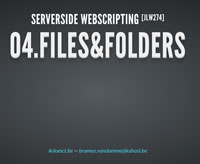
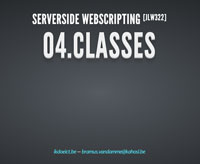
Switch Presentations 04 and 05

Changed region(s): [[0.03, 0.1829, 0.93, 0.3659], [0.15, 0.061, 0.84, 0.1524], [0.24, 0.8841, 0.75, 0.9451]]

diff --git a/05.files.and.folders.html b/05.files.and.folders.html
@@ -4,9 +4,9 @@
 	<head>
 		<meta charset="utf-8">
 
-		<title>Webscripting1 &mdash; Serverside Webscripting &mdash; 04.files.and.folders</title>
+		<title>Webscripting1 &mdash; Serverside Webscripting &mdash; 05.files.and.folders</title>
 
-		<meta name="description" content="Webscripting1 &mdash; Serverside Webscripting &mdash; 04.files.and.folders">
+		<meta name="description" content="Webscripting1 &mdash; Serverside Webscripting &mdash; 05.files.and.folders">
 		<meta name="author" content="Bram(us) Van Damme - ikdoeict.be">
 
 		<link href='http://fonts.googleapis.com/css?family=Lato:400,700,400italic,700italic' rel='stylesheet' type='text/css'>
@@ -75,7 +75,7 @@
 
 					<section>
 						<h3 class="inverted">Serverside Webscripting <small>[JLW322]</small></h3>
-						<h1>04.files&amp;folders</h1>
+						<h1>05.files&amp;folders</h1>
 
 						<footer>
 							<em><a href="http://www.ikdoeict.be/">ikdoeict.be</a> &mdash; <a href="mailto:bramus.vandamme@kahosl.be">bramus.vandamme@kahosl.be</a></em>
@@ -106,8 +106,8 @@
 									<li class="fragment clearfix">
 										Windows: NTFS permissions <em>(disable simple file sharing!)</em>
 										<div class="columns clearfix fragment" style="width: 520px; margin: 0 auto;">
-											<div class="column column-12"><img src="assets/04/windows-simplefilesharing.png" width="240" alt="" title="" class="noborder" /></div>
-											<div class="column column-12"><img src="assets/04/windows-permissions.png" width="240" alt="" title="" class="noborder" /></div>
+											<div class="column column-12"><img src="assets/05/windows-simplefilesharing.png" width="240" alt="" title="" class="noborder" /></div>
+											<div class="column column-12"><img src="assets/05/windows-permissions.png" width="240" alt="" title="" class="noborder" /></div>
 										</div>
 									</li>
 								</ul>
@@ -172,7 +172,7 @@
 						<ul>
 							<li class="fragment">
 								Example
-								<pre class="bigger"><code class="language-php" data-overlay-example="assets/04/examples/fileread_01.php">&lt;?php
+								<pre class="bigger"><code class="language-php" data-overlay-example="assets/05/examples/fileread_01.php">&lt;?php
 
 	// path to file (relative from this PHP file)
 	$filename = './testfile.txt';
@@ -204,7 +204,7 @@
 						<ul>
 							<li class="fragment">
 								Example 2
-								<pre class="bigger"><code class="language-php" data-overlay-example="assets/04/examples/fileread_02.php">&lt;?php
+								<pre class="bigger"><code class="language-php" data-overlay-example="assets/05/examples/fileread_02.php">&lt;?php
 
 	$handle = fopen('./testfile.txt', 'r');
 
@@ -227,7 +227,7 @@
 						<ul>
 							<li class="fragment">
 								Get all lines of a file in an array using <code>file()</code>
-								<pre class="bigger"><code class="language-php" data-overlay-example="assets/04/examples/fileread_03.php">&lt;?php
+								<pre class="bigger"><code class="language-php" data-overlay-example="assets/05/examples/fileread_03.php">&lt;?php
 
 	$lines = file('./testfile.txt');
 
@@ -238,7 +238,7 @@
 							</li>
 							<li class="fragment">
 								Get the entire file contens using 1 command
-								<pre class="bigger"><code class="language-php" data-overlay-example="assets/04/examples/fileread_04.php">&lt;?php
+								<pre class="bigger"><code class="language-php" data-overlay-example="assets/05/examples/fileread_04.php">&lt;?php
 	echo file_get_contents('./testfile.txt');</code></pre>
 							</li>
 						</ul>
@@ -253,13 +253,13 @@
 							</li>
 							<li class="fragment">
 								Or just use <code>file_put_contents()</code>
-								<pre class="bigger"><code class="language-php" data-overlay-example="assets/04/examples/filewrite_01.php">&lt;?php
+								<pre class="bigger"><code class="language-php" data-overlay-example="assets/05/examples/filewrite_01.php">&lt;?php
 
 	file_put_contents('./testfile2.txt', 'hello!' . PHP_EOL);</code></pre>
 								<ul>
 									<li class="fragment">
 										To update a file combine <code>file_get_contents()</code> and <code>file_put_contents()</code>
-										<pre class="bigger"><code class="language-php" data-overlay-example="assets/04/examples/filewrite_02.php">&lt;?php
+										<pre class="bigger"><code class="language-php" data-overlay-example="assets/05/examples/filewrite_02.php">&lt;?php
 
 	file_put_contents(
 		'./testfile2.txt',
@@ -278,7 +278,7 @@
 						<ul>
 							<li class="fragment">
 								Example
-								<pre class="bigger"><code class="language-php" data-overlay-example="assets/04/examples/fileproperties.php">&lt;?php
+								<pre class="bigger"><code class="language-php" data-overlay-example="assets/05/examples/fileproperties.php">&lt;?php
 
 	$filename = './testfile.txt';
 
@@ -301,7 +301,7 @@
 						<ul>
 							<li class="fragment">
 								Example
-								<pre class="bigger"><code class="language-php" data-overlay-example="assets/04/examples/filemanipulation.php">&lt;?php
+								<pre class="bigger"><code class="language-php" data-overlay-example="assets/05/examples/filemanipulation.php">&lt;?php
 
 	// Copy file
 	copy('./testfile.txt', './copiedfile.txt');
@@ -322,7 +322,7 @@
 						<ul>
 							<li class="fragment">
 								Example
-								<pre class="bigger"><code class="language-php" data-overlay-example="assets/04/examples/dirread.php">&lt;?php
+								<pre class="bigger"><code class="language-php" data-overlay-example="assets/05/examples/dirread.php">&lt;?php
 
 	$myBaseDir	= './';
 	$dp = opendir($myBaseDir);
@@ -354,7 +354,7 @@
 						<ul>
 							<li class="fragment">
 								Suppress errors with <code>@</code> and stop the process when neccessary
-								<pre class="bigger"><code class="language-php" data-overlay-example="assets/04/examples/dirread.php">&lt;?php
+								<pre class="bigger"><code class="language-php" data-overlay-example="assets/05/examples/dirread.php">&lt;?php
 
 	$myBaseDir	= './';
 	$dp = @opendir($myBaseDir) or die('Error reading ' . $myBaseDir);
@@ -433,7 +433,7 @@ $car-&gt;stop();</code></pre>
 						<h2>SPL and files (2)</h2>
 						<ul>
 							<li class="fragment">Example (file info)
-							<pre class="bigger"><code class="language-php" data-overlay-example="assets/04/examples/spl_fileproperties.php">&lt;?php
+							<pre class="bigger"><code class="language-php" data-overlay-example="assets/05/examples/spl_fileproperties.php">&lt;?php
 
 	$filename = './testfile.txt';
 	$fi = new SplFileInfo($filename);
@@ -454,7 +454,7 @@ $car-&gt;stop();</code></pre>
 						<h2>SPL and files (3)</h2>
 						<ul>
 							<li class="fragment">Example (file read)
-							<pre class="bigger"><code class="language-php" data-overlay-example="assets/04/examples/spl_fileread.php">&lt;?php
+							<pre class="bigger"><code class="language-php" data-overlay-example="assets/05/examples/spl_fileread.php">&lt;?php
 
 	$lines = new SPLFileObject('./testfile.txt');
 
@@ -478,7 +478,7 @@ $car-&gt;stop();</code></pre>
 							<li class="fragment">SPL contains a <code>DirectoryIterator</code> class &mdash; which extends <code>SPLFileInfo</code> (!) &mdash; a simple interface for viewing the contents of filesystem directories <em>(<a href="http://www.php.net/manual/en/class.directoryiterator.php">phpdocs</a>)</em></li>
 							<li class="fragment">
 								Example
-								<pre class="bigger"><code class="language-php" data-overlay-example="assets/04/examples/spl_dirread.php">&lt;?php
+								<pre class="bigger"><code class="language-php" data-overlay-example="assets/05/examples/spl_dirread.php">&lt;?php
 
 	$myBaseDir = './';
 	$di = new DirectoryIterator($myBaseDir);
@@ -500,7 +500,7 @@ $car-&gt;stop();</code></pre>
 						<ul>
 							<li class="fragment">
 								If you try to access a file/folder that doesn't exist using the SPL classes, PHP will throw an <code>Exception</code>
-								<pre class="bigger"><code class="language-php" data-overlay-example="assets/04/examples/spl_exception_01.php">&lt;?php
+								<pre class="bigger"><code class="language-php" data-overlay-example="assets/05/examples/spl_exception_01.php">&lt;?php
 
 	$di = new DirectoryIterator('/this/path/does/not/exist');
 
@@ -508,7 +508,7 @@ $car-&gt;stop();</code></pre>
 							</li>
 							<li class="fragment">
 								Use a <code>try</code>/<code>catch</code> to properly handle it
-								<pre class="bigger"><code class="language-php" data-overlay-example="assets/04/examples/spl_exception_02.php">&lt;?php
+								<pre class="bigger"><code class="language-php" data-overlay-example="assets/05/examples/spl_exception_02.php">&lt;?php
 
 	try {
 		$di = new DirectoryIterator('/this/path/does/not/exist');
@@ -526,15 +526,15 @@ $car-&gt;stop();</code></pre>
 						<ul>
 							<li class="fragment">
 								Oldskool: <code>./</code> = current working directory <small>(*)</small>
-								<pre class="bigger"><code class="language-php" data-overlay-example="assets/04/examples/magic_constants.php">$myBaseDir = './';</code></pre>
+								<pre class="bigger"><code class="language-php" data-overlay-example="assets/05/examples/magic_constants.php">$myBaseDir = './';</code></pre>
 							</li>
 							<li class="fragment">
 								Since PHP 4.2: <code>__FILE__</code> = The full path and filename of the PHP file.
-								<pre class="bigger"><code class="language-php" data-overlay-example="assets/04/examples/magic_constants.php">$myBaseDir = dirname(__FILE__);</code></pre>
+								<pre class="bigger"><code class="language-php" data-overlay-example="assets/05/examples/magic_constants.php">$myBaseDir = dirname(__FILE__);</code></pre>
 							</li>
 							<li class="fragment">
 								Since PHP 5.3: <code>__DIR__</code> = The full path of the PHP file.
-								<pre class="bigger"><code class="language-php" data-overlay-example="assets/04/examples/magic_constants.php">$myBaseDir = __DIR__;</code></pre>
+								<pre class="bigger"><code class="language-php" data-overlay-example="assets/05/examples/magic_constants.php">$myBaseDir = __DIR__;</code></pre>
 							</li>
 						</ul>
 						<footer class="fragment">
@@ -568,7 +568,7 @@ $car-&gt;stop();</code></pre>
 						<ul>
 							<li class="fragment">
 								Example
-								<pre class="bigger"><code class="language-php" data-overlay-example="assets/04/examples/upload.php">&lt;?php
+								<pre class="bigger"><code class="language-php" data-overlay-example="assets/05/examples/upload.php">&lt;?php
 if (isset($_FILES['avatar'])) {
 
 	echo '&lt;p&gt;Uploaded file: ' . $_FILES['avatar']['name'] . '&lt;/p&gt;';

diff --git a/04.classes.html b/04.classes.html
@@ -4,9 +4,9 @@
 	<head>
 		<meta charset="utf-8">
 
-		<title>Webscripting1 &mdash; Serverside Webscripting &mdash; 05.classes</title>
+		<title>Webscripting1 &mdash; Serverside Webscripting &mdash; 04.classes</title>
 
-		<meta name="description" content="Webscripting1 &mdash; Serverside Webscripting &mdash; 05.clases">
+		<meta name="description" content="Webscripting1 &mdash; Serverside Webscripting &mdash; 04.classes">
 		<meta name="author" content="Bram(us) Van Damme - ikdoeict.be">
 
 		<link href='http://fonts.googleapis.com/css?family=Lato:400,700,400italic,700italic' rel='stylesheet' type='text/css'>
@@ -75,7 +75,7 @@
 
 					<section>
 						<h3 class="inverted">Serverside Webscripting <small>[JLW322]</small></h3>
-						<h1>05.classes</h1>
+						<h1>04.classes</h1>
 
 						<footer>
 							<em><a href="http://www.ikdoeict.be/">ikdoeict.be</a> &mdash; <a href="mailto:bramus.vandamme@kahosl.be">bramus.vandamme@kahosl.be</a></em>
@@ -101,7 +101,7 @@
 					<section>
 						<h2>Basic Class</h2>
 
-						<pre class="bigger"><code class="language-php" data-overlay-example="assets/05/examples/01.php">&lt;?php
+						<pre class="bigger"><code class="language-php" data-overlay-example="assets/04/examples/01.php">&lt;?php
 
 class BasicClass {
 
@@ -134,7 +134,7 @@ echo $inst->var3;</code></pre>
 					<section>
 						<h2>Constants</h2>
 
-						<pre class="bigger"><code class="language-php" data-overlay-example="assets/05/examples/02.php">&lt;?php
+						<pre class="bigger"><code class="language-php" data-overlay-example="assets/04/examples/02.php">&lt;?php
 
 class BasicClass {
 
@@ -155,7 +155,7 @@ echo $inst->multiply(3) . PHP_EOL;</code></pre>
 					<section>
 						<h2>Static Variables &amp; Static Methods</h2>
 
-						<pre class="bigger"><code class="language-php" data-overlay-example="assets/05/examples/03.php">&lt;?php
+						<pre class="bigger"><code class="language-php" data-overlay-example="assets/04/examples/03.php">&lt;?php
 
 class BasicClass {
 
@@ -183,7 +183,7 @@ echo $inst2::$staticVariable . PHP_EOL;</code></pre>
 					<section>
 						<h2>Inheritance (1)</h2>
 
-						<pre class="bigger"><code class="language-php" data-overlay-example="assets/05/examples/04.php">&lt;?php
+						<pre class="bigger"><code class="language-php" data-overlay-example="assets/04/examples/04.php">&lt;?php
 
 class Animal {
 
@@ -214,7 +214,7 @@ $dog->bark();</code></pre>
 					<section>
 						<h2>Inheritance (2)</h2>
 
-						<pre class="bigger"><code class="language-php" data-overlay-example="assets/05/examples/05.php">&lt;?php
+						<pre class="bigger"><code class="language-php" data-overlay-example="assets/04/examples/05.php">&lt;?php
 
 class Animal {
 
@@ -245,7 +245,7 @@ echo $dog->getName() . PHP_EOL;</code></pre>
 					<section>
 						<h2>Inheritance (3)</h2>
 
-						<pre class="bigger"><code class="language-php" data-overlay-example="assets/05/examples/06.php">&lt;?php
+						<pre class="bigger"><code class="language-php" data-overlay-example="assets/04/examples/06.php">&lt;?php
 
 abstract class Animal {
 

diff --git a/index.html b/index.html
@@ -280,8 +280,8 @@
 						<li><a href="01.php.intro.html" title="01.php.intro"><img src="assets/index/01.jpg" alt="01.php.intro" title="01.php.intro" /></a></li>
 						<li><a href="02.client.server.html" title="02.client.server"><img src="assets/index/02.jpg" alt="02.client.server" title="02.client.server" /></a></li>
 						<li><a href="03.forms.html" title="03.forms"><img src="assets/index/03.jpg" alt="03.forms" title="03.forms" /></a></li>
-						<li class="notyet"><a href="04.files.and.folders.html" title="04.files.and.folders"><img src="assets/index/04.jpg" alt="04.files.and.folders" title="04.files.and.folders" /></a></li>
-						<li class="notyet"><a href="05.classes.html" title="05.classes"><img src="assets/index/05.jpg" alt="05.classes" title="05.classes" /></a></li>
+						<li><a href="04.classes.html" title="04.classes"><img src="assets/index/04.jpg" alt="04.classes" title="04.classes" /></a></li>
+						<li><a href="05.files.and.folders.html" title="05.files.and.folders"><img src="assets/index/05.jpg" alt="05.files.and.folders" title="04.files.and.folders" /></a></li>
 						<li class="notyet"><a href="06.code.organization.html" title="06.code.organization"><img src="assets/index/06.jpg" alt="06.code.organization" title="06.code.organization" /></a></li>
 						<li class="notyet"><a href="07.databases.html" title="07.databases"><img src="assets/index/07.jpg" alt="07.databases" title="07.databases" /></a></li>
 						<li class="notyet"><a href="08.templates.html" title="08.templates"><img src="assets/index/08.jpg" alt="08.templates" title="08.templates" /></a></li>
